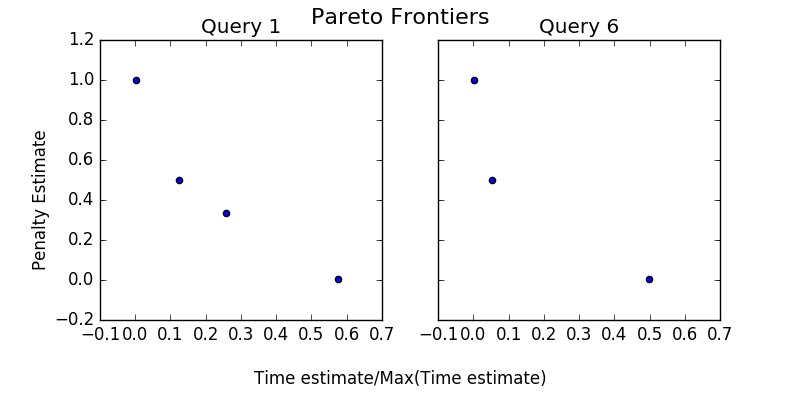
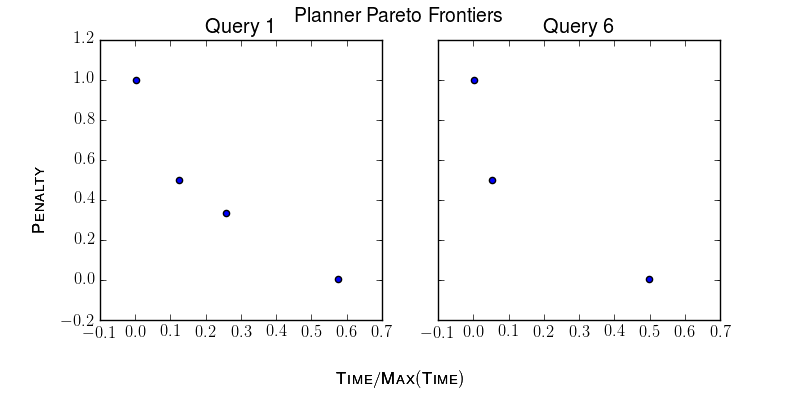
frontier plots with stylized axis labels to match cost function font

diff --git a/paper/experiments.tex b/paper/experiments.tex
@@ -176,7 +176,7 @@ This highlights a challenge for a user handling data imputation traditionally: i
 By using \ProjectName{} this cost can be lowered significantly.
 
 \review{
-\Cref{fig:pareto-frontiers} shows the final Pareto frontiers produced for \Cref{q1} and \Cref{q6}. These are the resulting set of plans after pruning dominated plans throughout our algorithm.
+\Cref{fig:pareto-frontiers} shows the final Pareto frontiers produced by the planner for \Cref{q1} and \Cref{q6}. These are the resulting set of plans after pruning dominated plans throughout our algorithm.
 and encapsulate the possible tradeoffs that the user can make in choosing a final plan for execution. The frontier is available at the end of the planning stage and
 can be exposed to the user to help in guiding their workflow.
 }
@@ -197,7 +197,7 @@ Queries optimized
 \centering
 \includegraphics[scale=0.4]{figures/pareto_frontiers_plot.png}
 \caption{\review{
-    \ProjectName{}'s final Pareto frontier for \Cref{q1} and \Cref{q6}. 
+    \ProjectName{}'s final planner Pareto frontier for \Cref{q1} and \Cref{q6}. 
     For clarity, we have removed from the plot plans that provide nearly indistinguishable tradeoffs in either dimension.
 }}
 \label{fig:pareto-frontiers}

diff --git a/paper/pareto_plot.py b/paper/pareto_plot.py
@@ -4,7 +4,15 @@ import numpy as np
 import sys
 ANNOTATE = False
 
+
 def plot_frontier():
+  # setup latex rendering to use \textsc below
+  from matplotlib import rc
+  rc('font',**{'family':'sans-serif','sans-serif':['Helvetica']})
+  ## for Palatino and other serif fonts use:
+  #rc('font',**{'family':'serif','serif':['Palatino']})
+  rc('text', usetex=True)
+  
   df = pd.read_csv('tables/pareto_frontiers.csv')
   df['norm_time'] = df.groupby('query')['time'].apply(lambda x: x / x.max())
   df['id'] = range(0, df.shape[0])
@@ -26,9 +34,9 @@ def plot_frontier():
     ax.set_ylabel('')
 
     plt.subplots_adjust(bottom=0.2)
-    fig.suptitle('Pareto Frontiers', size=16)
-    fig.text(0.5, 0.04, 'Time estimate/Max(Time estimate)', ha='center')
-    fig.text(0.04, 0.5, 'Penalty Estimate', va='center', rotation='vertical')
+    fig.suptitle('Planner Pareto Frontiers', size=14)
+    fig.text(0.5, 0.04, r'$\textsc{Time}/\textsc{Max}(\textsc{Time})$', ha='center')
+    fig.text(0.04, 0.5, r'$\textsc{Penalty}$', va='center', rotation='vertical')
     fig.savefig('figures/pareto_frontiers_plot.png')
 
 
